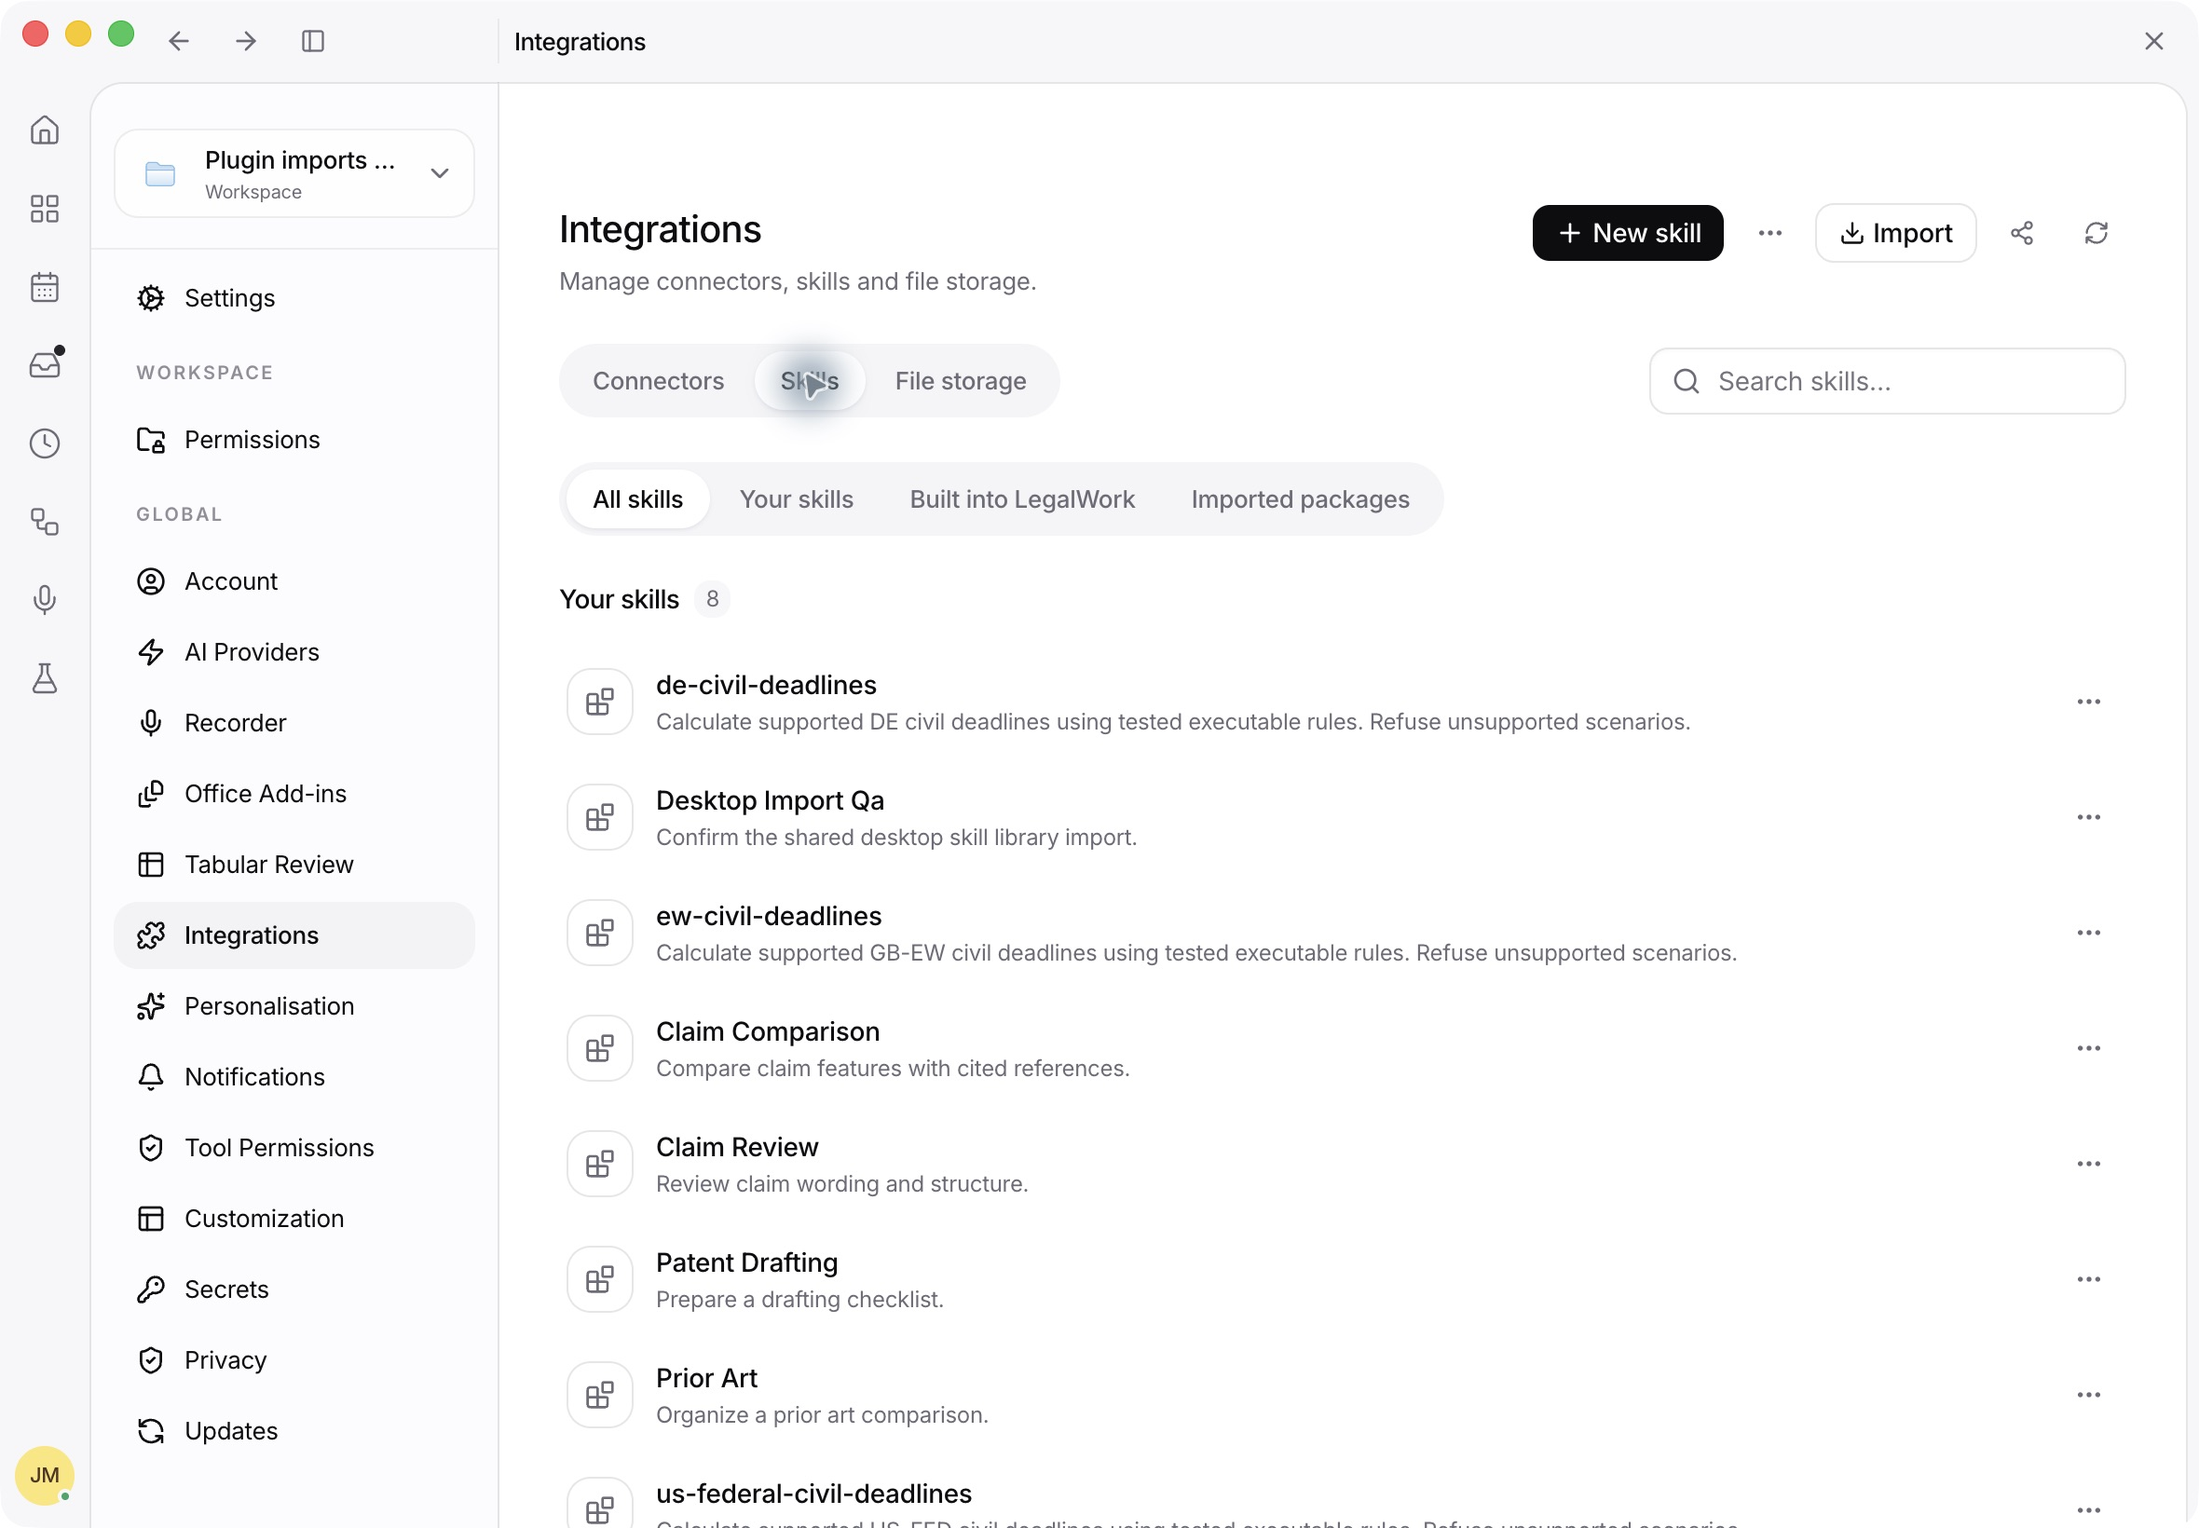
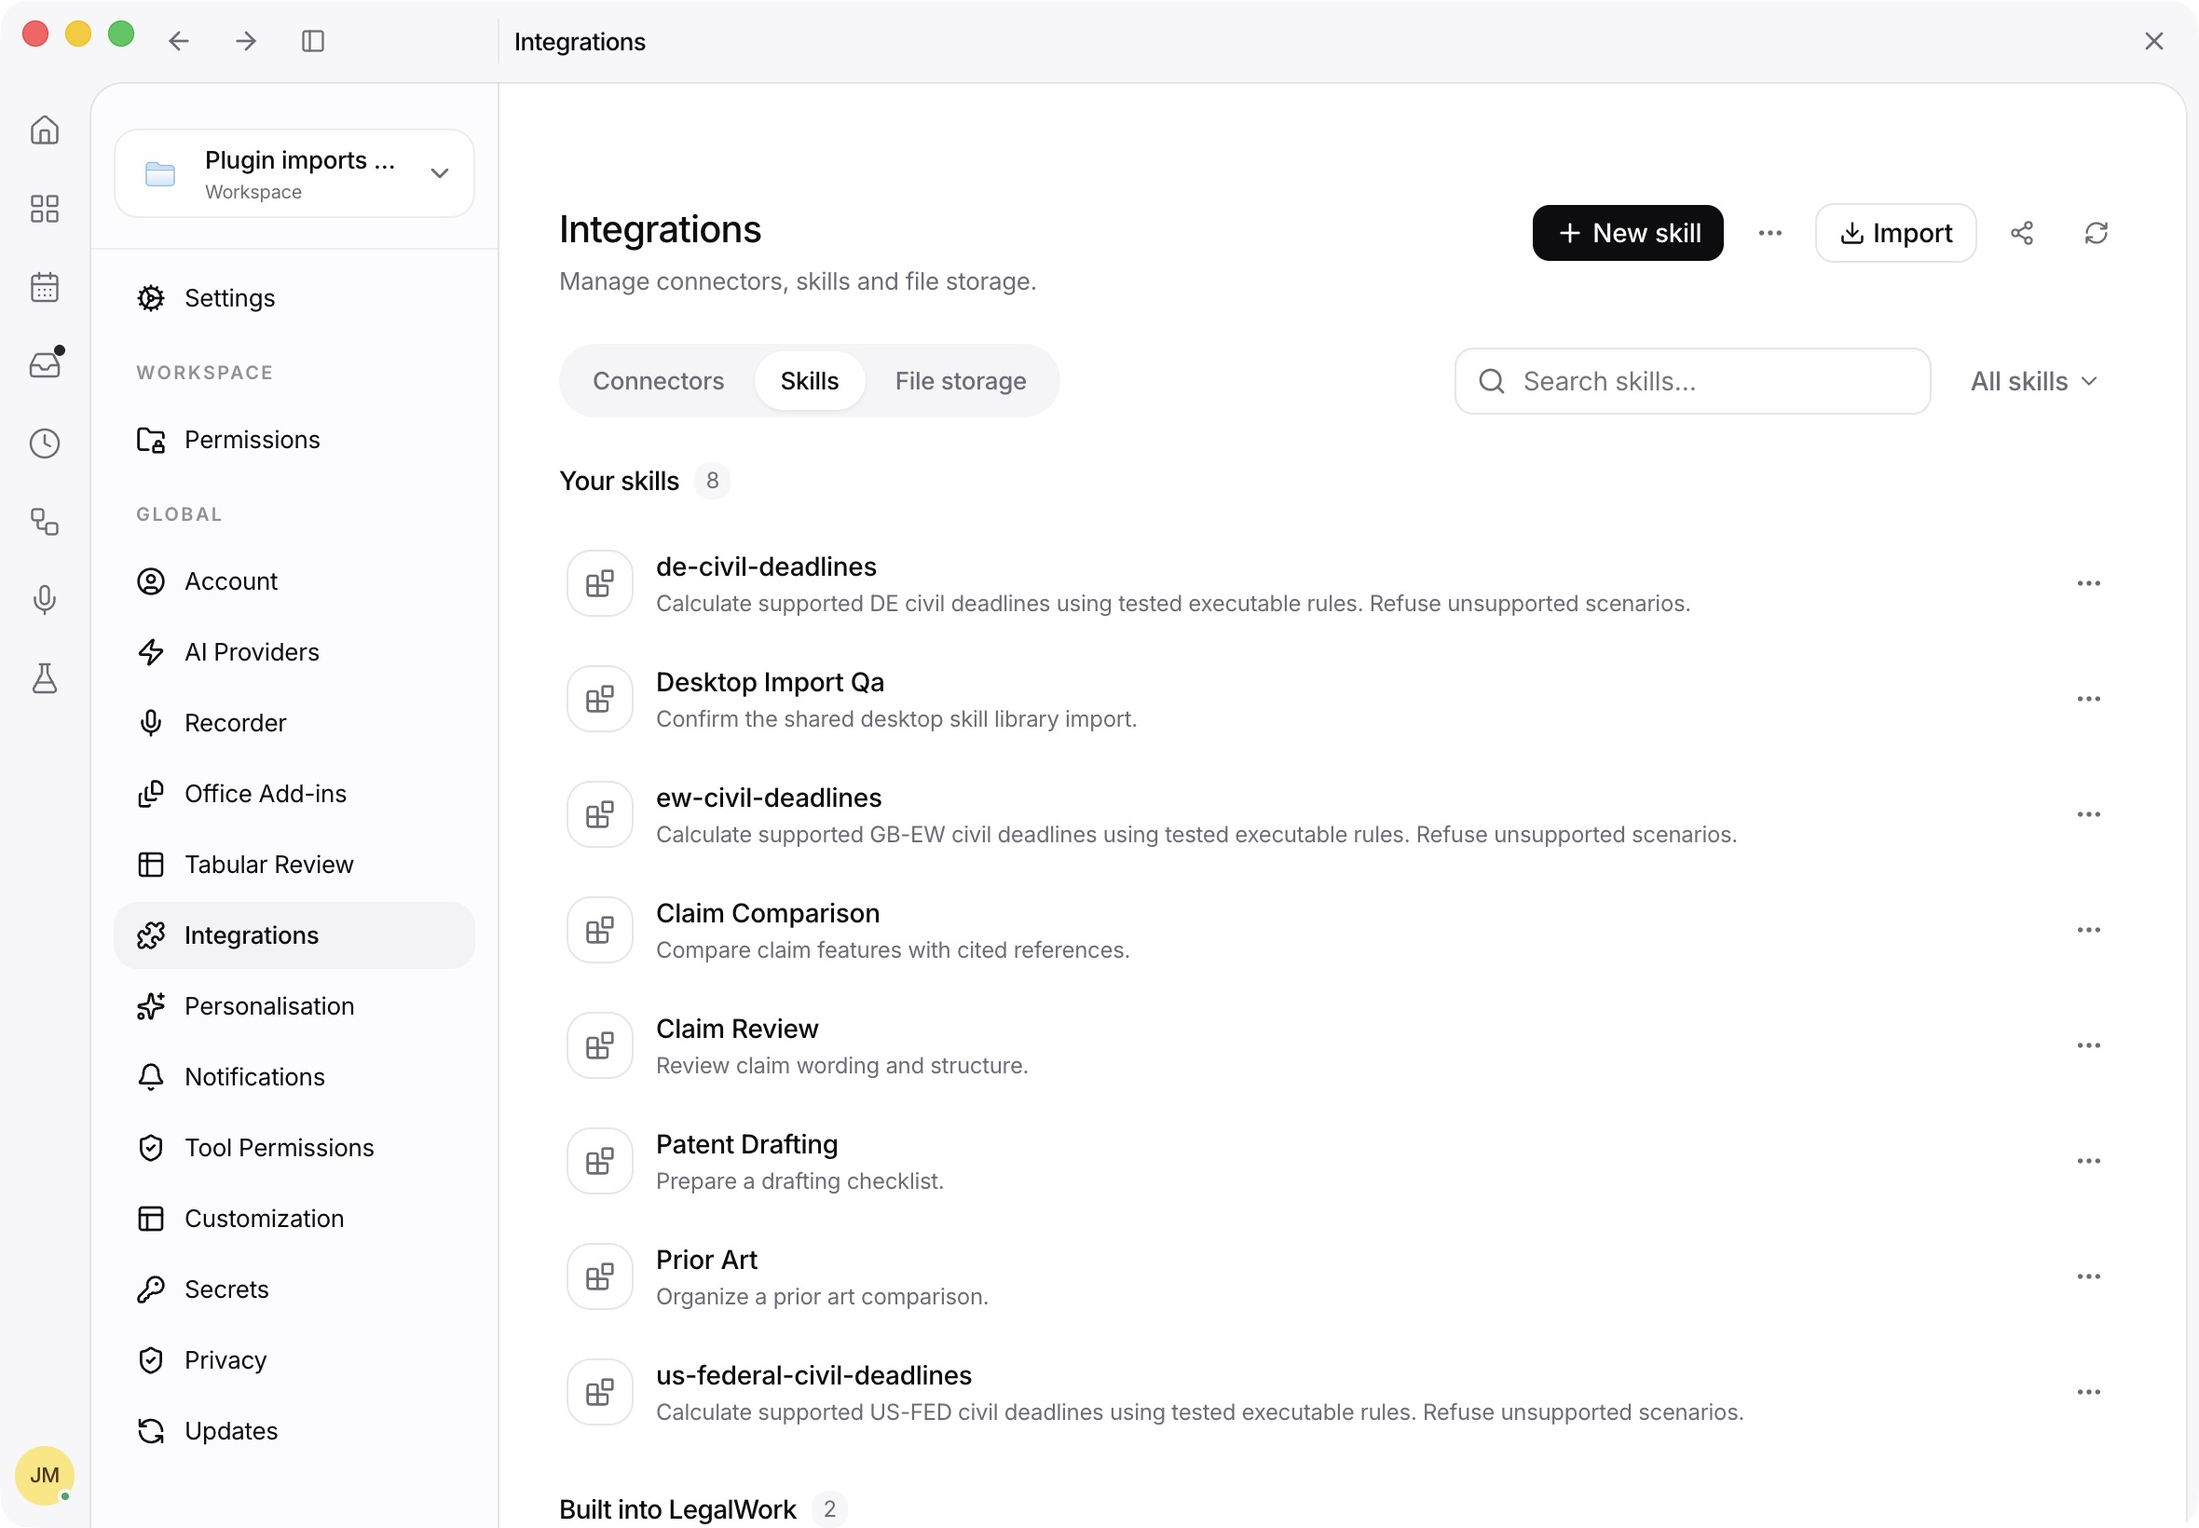
Replace secondary skills tabs with a search filter

diff --git a/apps/app/src/react-app/domains/settings/pages/skills-view.tsx b/apps/app/src/react-app/domains/settings/pages/skills-view.tsx
@@ -1,6 +1,5 @@
 /** @jsxImportSource react */
 import { IntegrationLibraryHeader, IntegrationLibraryActions, IntegrationSearch, IntegrationGroupHeading, IntegrationEmptyState, useIntegrationLibraryLayout } from "./integration-library";
-import { HubTabs } from "../segmented-tabs";
 import { SkillLibraryRow } from "./skill-library-row";
 import {
   useCallback,
@@ -16,6 +15,7 @@ import {
   Blocks,
   Bot,
   CheckCircle2,
+  ChevronDown,
   ChevronLeft,
   ChevronRight,
   Download,
@@ -60,7 +60,7 @@ import {
   pillSecondaryClass,
 } from "@/react-app/domains/workspace/modal-styles";
 import { Button } from "@/components/ui/button";
-import { DropdownMenu, DropdownMenuContent, DropdownMenuItem, DropdownMenuTrigger } from "@/components/ui/dropdown-menu";
+import { DropdownMenu, DropdownMenuContent, DropdownMenuItem, DropdownMenuRadioGroup, DropdownMenuRadioItem, DropdownMenuTrigger } from "@/components/ui/dropdown-menu";
 import { Separator } from "@/components/ui/separator";
 import { ConfirmModal } from "@/react-app/design-system/modals/confirm-modal";
 import { Spinner } from "../settings-section";
@@ -89,6 +89,7 @@ import { FirmSkillDialog } from "./firm-skill-dialog";
 
 type InstallResult = { ok: boolean; message: string };
 type SkillsFilter = "all" | "installed" | "hub";
+type SkillLibraryFilter = "all" | "custom" | "built-in" | "packages";
 const SKILLS_HUB_UI_ENABLED = false;
 // Workflows grid: 2 columns × 4 rows of compact cards before paging.
 const WORKFLOWS_PER_PAGE = 8;
@@ -343,7 +344,13 @@ export function SkillsView(props: SkillsViewProps) {
 
 
   const isWorkflowsView = props.kind === "workflows";
-  const [libraryFilter, setLibraryFilter] = useState<"all" | "custom" | "built-in" | "packages">("all");
+  const [libraryFilter, setLibraryFilter] = useState<SkillLibraryFilter>("all");
+  const libraryFilterLabels: Record<SkillLibraryFilter, string> = {
+    all: t("integrations.all_skills"),
+    custom: t("integrations.your_skills"),
+    "built-in": t("integrations.included"),
+    packages: t("skills.packages_title"),
+  };
   const [skillsImportOpen, setSkillsImportOpen] = useState(false);
   const [teamSkillsOpen, setTeamSkillsOpen] = useState(false);
   // Local | Team toggle: "Local" shows this workspace's installed items; "Team"
@@ -763,14 +770,16 @@ export function SkillsView(props: SkillsViewProps) {
           </div>
         ) : null}
 
-        {showLocal ? <IntegrationSearch toolbar={!isWorkflowsView} value={searchQuery} onChange={setSearchQuery} label={t(isWorkflowsView ? "skills.catalog_search_placeholder" : "integrations.search_skills")}>
-          {!isWorkflowsView ? <HubTabs label={t("skills.title")} value={libraryFilter} onChange={setLibraryFilter} items={[
-            { id: "all", label: t("integrations.all_skills") },
-            { id: "custom", label: t("integrations.your_skills") },
-            { id: "built-in", label: t("skills.built_in_title") },
-            { id: "packages", label: t("skills.packages_title") },
-          ]} /> : null}
-        </IntegrationSearch> : null}
+        {showLocal ? <IntegrationSearch toolbar={!isWorkflowsView} value={searchQuery} onChange={setSearchQuery} label={t(isWorkflowsView ? "skills.catalog_search_placeholder" : "integrations.search_skills")} filter={!isWorkflowsView ? <DropdownMenu>
+          <DropdownMenuTrigger render={<Button variant="ghost" size="sm" className="shrink-0 text-muted-foreground" aria-label={t("integrations.filter_skills", { filter: libraryFilterLabels[libraryFilter] })} />}>
+            {libraryFilterLabels[libraryFilter]}<ChevronDown className="size-3.5" />
+          </DropdownMenuTrigger>
+          <DropdownMenuContent align="end">
+            <DropdownMenuRadioGroup value={libraryFilter} onValueChange={value => { if (value === "all" || value === "custom" || value === "built-in" || value === "packages") setLibraryFilter(value); }}>
+              {Object.entries(libraryFilterLabels).map(([value, label]) => <DropdownMenuRadioItem key={value} value={value} closeOnClick>{label}</DropdownMenuRadioItem>)}
+            </DropdownMenuRadioGroup>
+          </DropdownMenuContent>
+        </DropdownMenu> : undefined} /> : null}
       </div>
 
       {showTeam ? props.firmDownloadView : null}

diff --git a/apps/app/src/react-app/domains/settings/pages/integration-library.tsx b/apps/app/src/react-app/domains/settings/pages/integration-library.tsx
@@ -29,15 +29,16 @@ export function IntegrationLibraryHeader(props: { title: string; description: st
   </div>;
 }
 
-export function IntegrationSearch(props: { value: string; onChange: (value: string) => void; label: string; children?: ReactNode; toolbar?: boolean }) {
+export function IntegrationSearch(props: { value: string; onChange: (value: string) => void; label: string; children?: ReactNode; toolbar?: boolean; filter?: ReactNode }) {
   const layout = useIntegrationLibraryLayout();
-  const search = <div className="relative w-full sm:max-w-sm">
+  const search = <div className={props.toolbar && layout ? "relative w-full sm:w-64" : "relative w-full sm:max-w-sm"}>
       <Search className="pointer-events-none absolute start-3 top-1/2 size-4 -translate-y-1/2 text-muted-foreground" />
       <Input type="search" className="ps-9 pe-9 [&::-webkit-search-cancel-button]:appearance-none" aria-label={props.label} placeholder={props.label} value={props.value} onChange={event => props.onChange(event.target.value)} />
       {props.value ? <Button variant="ghost" size="icon-sm" className="absolute end-1 top-1/2 -translate-y-1/2" aria-label={t("integrations.clear_search")} onClick={() => props.onChange("")}><X className="size-3.5" /></Button> : null}
     </div>;
-  if (props.toolbar && layout) return <>{layout.search ? createPortal(search, layout.search) : null}{props.children}</>;
-  return <div className="space-y-3">{search}{props.children}</div>;
+  const controls = props.filter ? <div className="flex flex-wrap items-center gap-2">{search}{props.filter}</div> : search;
+  if (props.toolbar && layout) return <>{layout.search ? createPortal(controls, layout.search) : null}{props.children}</>;
+  return <div className="space-y-3">{controls}{props.children}</div>;
 }
 
 export function IntegrationGroupHeading(props: { title: string; count: number; children?: ReactNode; hideInLibrary?: boolean }) {

diff --git a/apps/app/src/react-app/domains/settings/pages/extensions-view.tsx b/apps/app/src/react-app/domains/settings/pages/extensions-view.tsx
@@ -111,7 +111,7 @@ export function ExtensionsView(props: ExtensionsViewProps) {
         {importOpen && props.pluginImports ? <PluginImportDialog store={props.pluginImports} onClose={() => setImportOpen(false)} onImported={preview => { setImportVersion(value => value + 1); selectTab(preview.format === "connectors" ? "connectors" : "skills"); props.onRefresh(); }} /> : null}
         <div className="flex flex-wrap items-center justify-between gap-3">
           <HubTabs items={TABS} value={tab} onChange={selectTab} label={t("extensions.eyebrow_integrations")} />
-          <div ref={setSearchTarget} className="w-full empty:hidden sm:w-64" />
+          <div ref={setSearchTarget} className="w-full empty:hidden sm:w-auto" />
         </div>
 
         <HubScopeContext.Provider key={importVersion} value="local">

diff --git a/apps/app/src/i18n/locales/de.ts b/apps/app/src/i18n/locales/de.ts
@@ -19,6 +19,7 @@ const de = {
   "integrations.builtin_tools": "LegalWork-Tools",
   "integrations.search_skills": "Skills durchsuchen…",
   "integrations.all_skills": "Alle Skills",
+  "integrations.filter_skills": "Skills filtern: {filter}",
   "integrations.description": "Verwalten Sie Konnektoren, Skills und Dateispeicher.",
   "integrations.add_connector": "Konnektor hinzufügen",
   "integrations.team_optional": "Von Ihrem Team geteilt · Optional",

diff --git a/apps/app/src/i18n/locales/en.ts b/apps/app/src/i18n/locales/en.ts
@@ -9,6 +9,7 @@ export default {
   "integrations.builtin_tools": "LegalWork tools",
   "integrations.search_skills": "Search skills…",
   "integrations.all_skills": "All skills",
+  "integrations.filter_skills": "Filter skills: {filter}",
   "integrations.description": "Manage connectors, skills and file storage.",
   "integrations.add_connector": "Add connector",
   "integrations.team_optional": "Shared by your team · Optional",

diff --git a/docs/plugin-imports.md b/docs/plugin-imports.md
@@ -9,7 +9,7 @@ Imports are automatically available in all projects, matching the desktop Skills
 The Integrations page keeps **Connectors / Skills / File storage** separate. One compact header holds the actions, the normal LegalWork segmented tabs sit beside search, and flat rows show an icon, name and one-line description. The Local/Team switch is removed: team items appear alongside personal items with a **Team** label. A single Import action opens a ChatGPT/Claude chooser with both logos. The Skills action menu contains Import skills, Open skills folder and Browse team skills; New skill stays visible. The former import footer is removed.
 
 - **Connectors:** saved connections and active built-in tools appear first; ready items precede paused/offline items. Paused connectors remain available to enable or inspect. Browse directory opens a separate, searchable catalog with All / Services / LegalWork tools filters. Closing a detail returns to the same directory search. Selecting a connector opens a compact management modal with chat access, account actions and optional technical details. The list has no inline expansion, dropdown arrows or sync timestamp. Team connectors use the same list, ordering and search, without duplicate engine-config rows. Optional team connectors can be added or removed using their toggle, with the existing review before adding; automatic team connectors remain managed by the firm. Team sign-in and member-key controls stay available. Own connectors, sign-in, removal, sharing, policy restrictions and read-only global configuration retain their behavior.
-- **Skills:** the complete installed library uses compact rows with a management menu for editing, exporting, sharing and removal. All skills / Your skills / Included / Imported packages filters separate skill use from package management. Search includes readable imported names, descriptions and built-in commands. Ordinary skills no longer inherit the eight-item workflow page limit; workflows retain pagination. Package loading and failures have explicit states.
+- **Skills:** the complete installed library uses compact rows with a management menu for editing, exporting, sharing and removal. A compact dropdown beside search offers All skills / Your skills / Included / Imported packages, avoiding a second tab bar. Search includes readable imported names, descriptions and built-in commands. Ordinary skills no longer inherit the eight-item workflow page limit; workflows retain pagination. Package loading and failures have explicit states.
 - **Data storage:** the library shows connected accounts and search rather than all storage types. Add storage opens a searchable provider picker, then the existing configuration form. Change provider returns to the picker before saving. Empty/search/error states distinguish an empty library from missing matches. Personal and team sources share one list; optional team sources remain visible for adding to Memory Drive. Team sources carry a Team label and retain their membership/account controls without local edit/remove actions. Existing access controls remain intact.
 
 This organization follows the installed-item management and separate discovery flows documented in [ChatGPT account management](https://help.openai.com/en/articles/20001494-connecting-and-managing-app-accounts-in-chatgpt), [Claude connectors](https://support.claude.com/en/articles/11176164-use-connectors-to-extend-claude-s-capabilities), and [Claude's directory](https://support.claude.com/en/articles/14328846-browse-skills-connectors-and-plugins-in-one-directory), reviewed October 11, 2026. LegalWork keeps its existing design-system tokens and the requested three-category split.
@@ -86,6 +86,8 @@ Native Electron verification found existing installations for both providers, fi
 
 ![Skills library in Electron](images/integrations-skills-library.png)
 
+![Skills filter dropdown beside search in Electron](images/integrations-skills-filter.png)
+
 ![Connected storage library in Electron](images/integrations-storage-library.png)
 
 ![Separate connector directory in Electron](images/integrations-connector-directory.png)
@@ -99,3 +101,5 @@ The single top-toolbar action and branded provider chooser were checked in Elect
 The compact header, normal category tabs, relocated search fields, Skills actions menu and branded import chooser were verified in Electron. Connector and built-in-command searches and Clear search retained their behavior. The existing shared storage account appeared in the combined library with its Team label. Team connector states were verified with cached server-view fixtures; no real team membership, credential or account was changed.
 
 The final focused check also passed 34 tests: `pnpm --filter @legalwork/app exec bun test tests/mcp-library.test.tsx tests/mcp-logout-truthfulness.test.ts tests/plugin-import-buttons.test.tsx tests/integration-libraries.test.tsx tests/add-mcp-modal.test.tsx`.
+
+The subsequent Skills filter cleanup replaces the secondary segmented bar with a dropdown beside search. Native Electron checks verified all four filter results, automatic menu dismissal on selection, combined personal-skill search and Clear search, and restoring All skills. `pnpm --filter @legalwork/app exec bun test tests/integration-libraries.test.tsx tests/plugin-import-buttons.test.tsx` passed 8 tests; app type checking and `test:i18n` passed with 5,735 keys per language.
